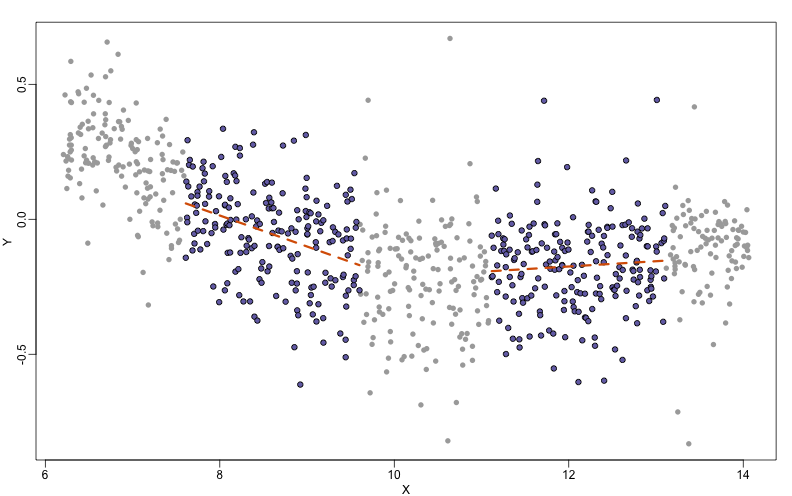
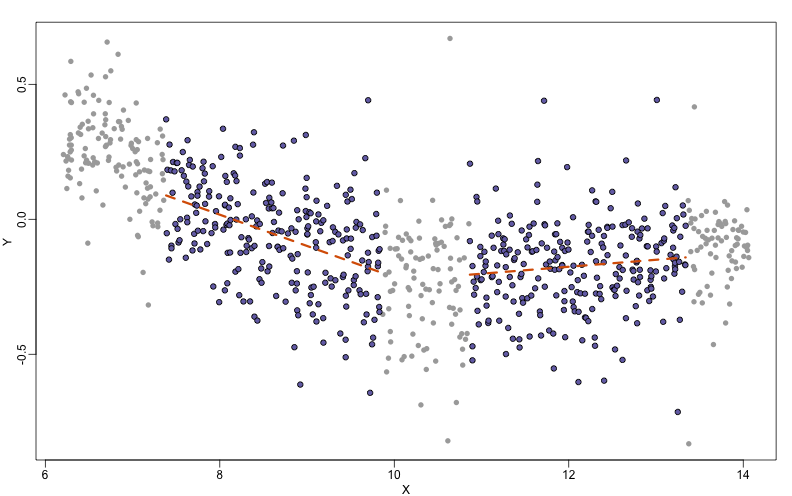
adding machine_learning to book

diff --git a/pages/machine_learning.md b/pages/machine_learning.md
@@ -199,7 +199,7 @@ Local weighted regression (loess) is similar to bin smoothing. The difference is
 centers <- seq(min(X),max(X),0.1)
 mypar2(1,1)
 plot(X,Y,col="darkgrey",pch=16)
-windowSize <- 1
+windowSize <- 1.25
 i <- 25
 center<-centers[i]
 ind=which(X>center-windowSize & X<center+windowSize)
@@ -222,7 +222,7 @@ Here are 12 steps of the process:
 
 ```r
 mypar2(4,3)
-windowSize<-1
+windowSize<-1.25
 smooth<-rep(NA,length(centers))
 for(i in seq(along=centers)){
   center<-centers[i]
@@ -234,7 +234,7 @@ for(i in seq(along=centers)){
     plot(X,Y,col="grey",pch=16)
     points(X[ind],Y[ind],bg=3,pch=21)
     a <- min(X[ind]);b <- max(X[ind])
-    lines(c(a,b),fit$coef[1]+fit$coef[2]*c(a,b),col=2,lty=2)
+    lines(c(a,b),fit$coef[1]+fit$coef[2]*c(a,b),col=2)
   
     lines(centers[1:i],smooth[1:i],col="black")
     points(centers[i],smooth[i],col="black",pch=16,cex=1.5)
